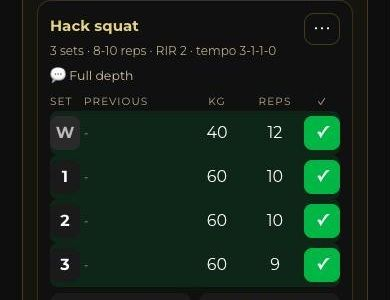
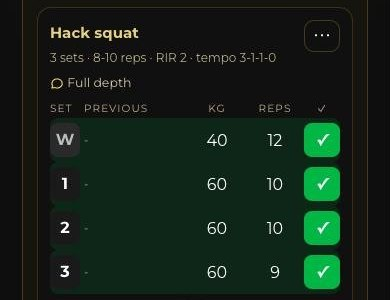
Website: fresh app screenshots matching the new design; FAQ booking path
Claude-Session: https://claude.ai/code/session_015XSugqhAp9LpeS1gvDmDd5

diff --git a/faq.html b/faq.html
@@ -679,7 +679,7 @@ section[id],header[id]{scroll-margin-top:84px}
   <div class="ag-jump"><a href="#f0">Getting started</a><a href="#f1">Online coaching</a><a href="#f2">In-person PT</a><a href="#f3">Food and nutrition</a><a href="#f4">The MPF app</a><a href="#f5">Real life</a></div>
 </div></section>
 <section class="faq-body"><div class="wrap">
-<div class="faq-g" id="f0"><h2>Getting started</h2><details><summary>I'm a beginner. Is this for me?</summary><p>Absolutely. Your programme spells out exactly what to do (sets, reps, tempo, rest), you can send me videos of your lifts for form feedback, and your nutrition lesson teaches you tracking from scratch. Nobody expects you to know it all on day one.</p></details><details><summary>Do you coach men and women?</summary><p>Yes, both. I specialise in fat loss and body recomposition, whether you want to lose fat, build muscle or both.</p></details><details><summary>I have an injury or a medical condition. Can I still train with you?</summary><p>Yes, in most cases. Tell me about any injuries, medical conditions or medication on your sign-up form, and I'll build your training and nutrition around them. If you're under a doctor or physio, or you're unsure whether exercise is safe for you right now, check with them first and let me know what they say. I'm a coach, not a medic, so I'll always work alongside their advice.</p></details><details><summary>What happens on the free call?</summary><p>We chat about your goals, your history, your lifestyle and what's got in the way before. No pressure and no hard sell. If we're a good fit, I'll explain exactly how we'd work together. <a href="book.html" style="color:var(--gold);font-weight:600">Book your free call</a>.</p></details><details><summary>Do I need a gym?</summary><p>Yes. Your programme is built around gym equipment so we can properly track your lifts and keep you progressing week after week.</p></details></div><div class="faq-g" id="f1"><h2>Online coaching</h2><details><summary>What do I get with online coaching?</summary><p>Your own training programme, your calories and macros, a 1-hour nutrition lesson over the phone, weekly check-ins with detailed feedback from me, form checks on your lift videos, WhatsApp support and full access to the MPF app. <a href="online-coaching.html" style="color:var(--gold);font-weight:600">See everything that's included</a>.</p></details><details><summary>How do check-ins work?</summary><p>Once a week, on your check-in day, you upload your front, side and back photos and answer a few questions in the app. Your week's numbers (weight trend, steps, protein, training, sleep) are pulled in for you, and I send back detailed feedback that's saved so you can look back on it.</p></details><details><summary>How much does it cost?</summary><p>Monthly is £175 a month. 3 months is £495 (£165 a month) and 6 months is £900 (£150 a month), so paying ahead makes every month cheaper. There's a one-off £75 set-up fee. <a href="online-coaching.html#pricing" style="color:var(--gold);font-weight:600">See the prices</a>.</p></details><details><summary>How long do I need to commit?</summary><p>Ideally a minimum of 3 months. Real, lasting change takes time, and that's long enough to build the habits and see results you can actually keep. <span class="joke">The 6-day miracle plan is available elsewhere. It doesn't work there either.</span></p></details><details><summary>Can I message you between check-ins?</summary><p>Yes. You can message me on WhatsApp, send me videos of your lifts for quick form feedback, and tell me how you're feeling so I can adjust things.</p></details></div><div class="faq-g" id="f2"><h2>In-person PT</h2><details><summary>Where do you train clients?</summary><p>At PureGym Charlton, south-east London.</p></details><details><summary>How much is personal training?</summary><p>Sessions come in packages, and the more sessions in your package, the less each one costs. <a href="personal-training.html#pricing" style="color:var(--gold);font-weight:600">See the PT prices</a>.</p></details><details><summary>How do I book, move or cancel a session?</summary><p>Through the booking page. If you're a client, it's in your app under Training, then Planner, then Book &amp; manage sessions. To move or cancel, open the booking page and tap Log in at the top right with your email.</p></details><details><summary>What if I need to cancel or move a session?</summary><p>You can reschedule any time before your session, as long as the new time is still within your 2-month window. If you cancel with less than 24 hours' notice, the session is taken from your package.</p></details><details><summary>Do PT clients get the app too?</summary><p>Yes, and it's free. In-person clients get the MPF app included, with your programme, logbook, daily targets and planner.</p></details></div><div class="faq-g" id="f3"><h2>Food and nutrition</h2><details><summary>Will I have to give up foods I love?</summary><p>No. I coach flexible dieting, so pizza nights, takeaways and eating out all fit. You learn how to make your food work for your goal instead of cutting things out.</p></details><details><summary>I'm vegan or vegetarian. Can you still help?</summary><p>Yes. Your targets and meal plans are built around how you eat, and the meal plan builder can make any meal vegan, vegetarian or pescatarian.</p></details><details><summary>Do I have to track my food?</summary><p>Tracking is how we make sure you're actually hitting your targets. In your nutrition lesson I teach you how to track properly using MyFitnessPal or your favourite calorie counter, so it becomes quick and easy.</p></details><details><summary>Do you give meal plans?</summary><p>Yes. You get a meal plan made for you, and inside the app you can generate new ones that hit your calories and macros, in 15 cuisines, with cooking instructions on every meal.</p></details></div><div class="faq-g" id="f4"><h2>The MPF app</h2><details><summary>What is the MPF app?</summary><p>Your coaching, all in one place on your phone: your programme, workout logbook, meal plans, daily targets, check-ins, progress photos and planner. <a href="app.html" style="color:var(--gold);font-weight:600">Take the tour</a>.</p></details><details><summary>Do I download it from the App Store?</summary><p>No. It runs from my website, so there's nothing to download. Save it to your home screen and it opens just like an app. iPhone (Safari): tap Share, then Add to Home Screen. Android (Chrome): tap the 3 dots, then Add to Home screen.</p></details><details><summary>Can anyone use the app?</summary><p>The MPF app is only for my coaching clients, online or in person. It unlocks when you become a member.</p></details><details><summary>Are my progress photos private?</summary><p>Yes. Only you and I can ever see them. They're stored privately with no public web address, they're never shared or posted without your permission, and you can ask me to delete them at any time.</p></details><details><summary>Does it work with Google Calendar?</summary><p>Yes. Turn on calendar sync and your weekly plan shows in your own calendar, updating automatically.</p></details></div><div class="faq-g" id="f5"><h2>Real life</h2><details><summary>What happens when I go on holiday?</summary><p>Holidays are part of the coaching, not a break from it. We plan for them together based on your goals, so you can enjoy yourself without undoing your progress. <span class="joke">No, you don't need to pack a food scale.</span></p></details><details><summary>What if I have a bad week?</summary><p>Tell me. That's what I'm here for. We look at what happened, adjust, and get you back on track. One bad week won't undo your progress.</p></details><details><summary>I've tried everything before. Why would this be different?</summary><p>Because it's built around your life, not a crash diet. We set realistic targets, adjust the plan instead of abandoning it, and you learn how to do this yourself, so you stop starting over every Monday.</p></details></div>
+<div class="faq-g" id="f0"><h2>Getting started</h2><details><summary>I'm a beginner. Is this for me?</summary><p>Absolutely. Your programme spells out exactly what to do (sets, reps, tempo, rest), you can send me videos of your lifts for form feedback, and your nutrition lesson teaches you tracking from scratch. Nobody expects you to know it all on day one.</p></details><details><summary>Do you coach men and women?</summary><p>Yes, both. I specialise in fat loss and body recomposition, whether you want to lose fat, build muscle or both.</p></details><details><summary>I have an injury or a medical condition. Can I still train with you?</summary><p>Yes, in most cases. Tell me about any injuries, medical conditions or medication on your sign-up form, and I'll build your training and nutrition around them. If you're under a doctor or physio, or you're unsure whether exercise is safe for you right now, check with them first and let me know what they say. I'm a coach, not a medic, so I'll always work alongside their advice.</p></details><details><summary>What happens on the free call?</summary><p>We chat about your goals, your history, your lifestyle and what's got in the way before. No pressure and no hard sell. If we're a good fit, I'll explain exactly how we'd work together. <a href="book.html" style="color:var(--gold);font-weight:600">Book your free call</a>.</p></details><details><summary>Do I need a gym?</summary><p>Yes. Your programme is built around gym equipment so we can properly track your lifts and keep you progressing week after week.</p></details></div><div class="faq-g" id="f1"><h2>Online coaching</h2><details><summary>What do I get with online coaching?</summary><p>Your own training programme, your calories and macros, a 1-hour nutrition lesson over the phone, weekly check-ins with detailed feedback from me, form checks on your lift videos, WhatsApp support and full access to the MPF app. <a href="online-coaching.html" style="color:var(--gold);font-weight:600">See everything that's included</a>.</p></details><details><summary>How do check-ins work?</summary><p>Once a week, on your check-in day, you upload your front, side and back photos and answer a few questions in the app. Your week's numbers (weight trend, steps, protein, training, sleep) are pulled in for you, and I send back detailed feedback that's saved so you can look back on it.</p></details><details><summary>How much does it cost?</summary><p>Monthly is £175 a month. 3 months is £495 (£165 a month) and 6 months is £900 (£150 a month), so paying ahead makes every month cheaper. There's a one-off £75 set-up fee. <a href="online-coaching.html#pricing" style="color:var(--gold);font-weight:600">See the prices</a>.</p></details><details><summary>How long do I need to commit?</summary><p>Ideally a minimum of 3 months. Real, lasting change takes time, and that's long enough to build the habits and see results you can actually keep. <span class="joke">The 6-day miracle plan is available elsewhere. It doesn't work there either.</span></p></details><details><summary>Can I message you between check-ins?</summary><p>Yes. You can message me on WhatsApp, send me videos of your lifts for quick form feedback, and tell me how you're feeling so I can adjust things.</p></details></div><div class="faq-g" id="f2"><h2>In-person PT</h2><details><summary>Where do you train clients?</summary><p>At PureGym Charlton, south-east London.</p></details><details><summary>How much is personal training?</summary><p>Sessions come in packages, and the more sessions in your package, the less each one costs. <a href="personal-training.html#pricing" style="color:var(--gold);font-weight:600">See the PT prices</a>.</p></details><details><summary>How do I book, move or cancel a session?</summary><p>Through the booking page. If you're a client, it's in your app under Training, then Book &amp; manage sessions. To move or cancel, open the booking page and tap Log in at the top right with your email.</p></details><details><summary>What if I need to cancel or move a session?</summary><p>You can reschedule any time before your session, as long as the new time is still within your 2-month window. If you cancel with less than 24 hours' notice, the session is taken from your package.</p></details><details><summary>Do PT clients get the app too?</summary><p>Yes, and it's free. In-person clients get the MPF app included, with your programme, logbook, daily targets and planner.</p></details></div><div class="faq-g" id="f3"><h2>Food and nutrition</h2><details><summary>Will I have to give up foods I love?</summary><p>No. I coach flexible dieting, so pizza nights, takeaways and eating out all fit. You learn how to make your food work for your goal instead of cutting things out.</p></details><details><summary>I'm vegan or vegetarian. Can you still help?</summary><p>Yes. Your targets and meal plans are built around how you eat, and the meal plan builder can make any meal vegan, vegetarian or pescatarian.</p></details><details><summary>Do I have to track my food?</summary><p>Tracking is how we make sure you're actually hitting your targets. In your nutrition lesson I teach you how to track properly using MyFitnessPal or your favourite calorie counter, so it becomes quick and easy.</p></details><details><summary>Do you give meal plans?</summary><p>Yes. You get a meal plan made for you, and inside the app you can generate new ones that hit your calories and macros, in 15 cuisines, with cooking instructions on every meal.</p></details></div><div class="faq-g" id="f4"><h2>The MPF app</h2><details><summary>What is the MPF app?</summary><p>Your coaching, all in one place on your phone: your programme, workout logbook, meal plans, daily targets, check-ins, progress photos and planner. <a href="app.html" style="color:var(--gold);font-weight:600">Take the tour</a>.</p></details><details><summary>Do I download it from the App Store?</summary><p>No. It runs from my website, so there's nothing to download. Save it to your home screen and it opens just like an app. iPhone (Safari): tap Share, then Add to Home Screen. Android (Chrome): tap the 3 dots, then Add to Home screen.</p></details><details><summary>Can anyone use the app?</summary><p>The MPF app is only for my coaching clients, online or in person. It unlocks when you become a member.</p></details><details><summary>Are my progress photos private?</summary><p>Yes. Only you and I can ever see them. They're stored privately with no public web address, they're never shared or posted without your permission, and you can ask me to delete them at any time.</p></details><details><summary>Does it work with Google Calendar?</summary><p>Yes. Turn on calendar sync and your weekly plan shows in your own calendar, updating automatically.</p></details></div><div class="faq-g" id="f5"><h2>Real life</h2><details><summary>What happens when I go on holiday?</summary><p>Holidays are part of the coaching, not a break from it. We plan for them together based on your goals, so you can enjoy yourself without undoing your progress. <span class="joke">No, you don't need to pack a food scale.</span></p></details><details><summary>What if I have a bad week?</summary><p>Tell me. That's what I'm here for. We look at what happened, adjust, and get you back on track. One bad week won't undo your progress.</p></details><details><summary>I've tried everything before. Why would this be different?</summary><p>Because it's built around your life, not a crash diet. We set realistic targets, adjust the plan instead of abandoning it, and you learn how to do this yourself, so you stop starting over every Monday.</p></details></div>
 <div class="faq-cta"><h2>Still got a question?</h2><p>Ask me on a free, no-pressure call.</p><a class="btn" href="book.html">Book your free call</a></div>
 </div></section>
 
